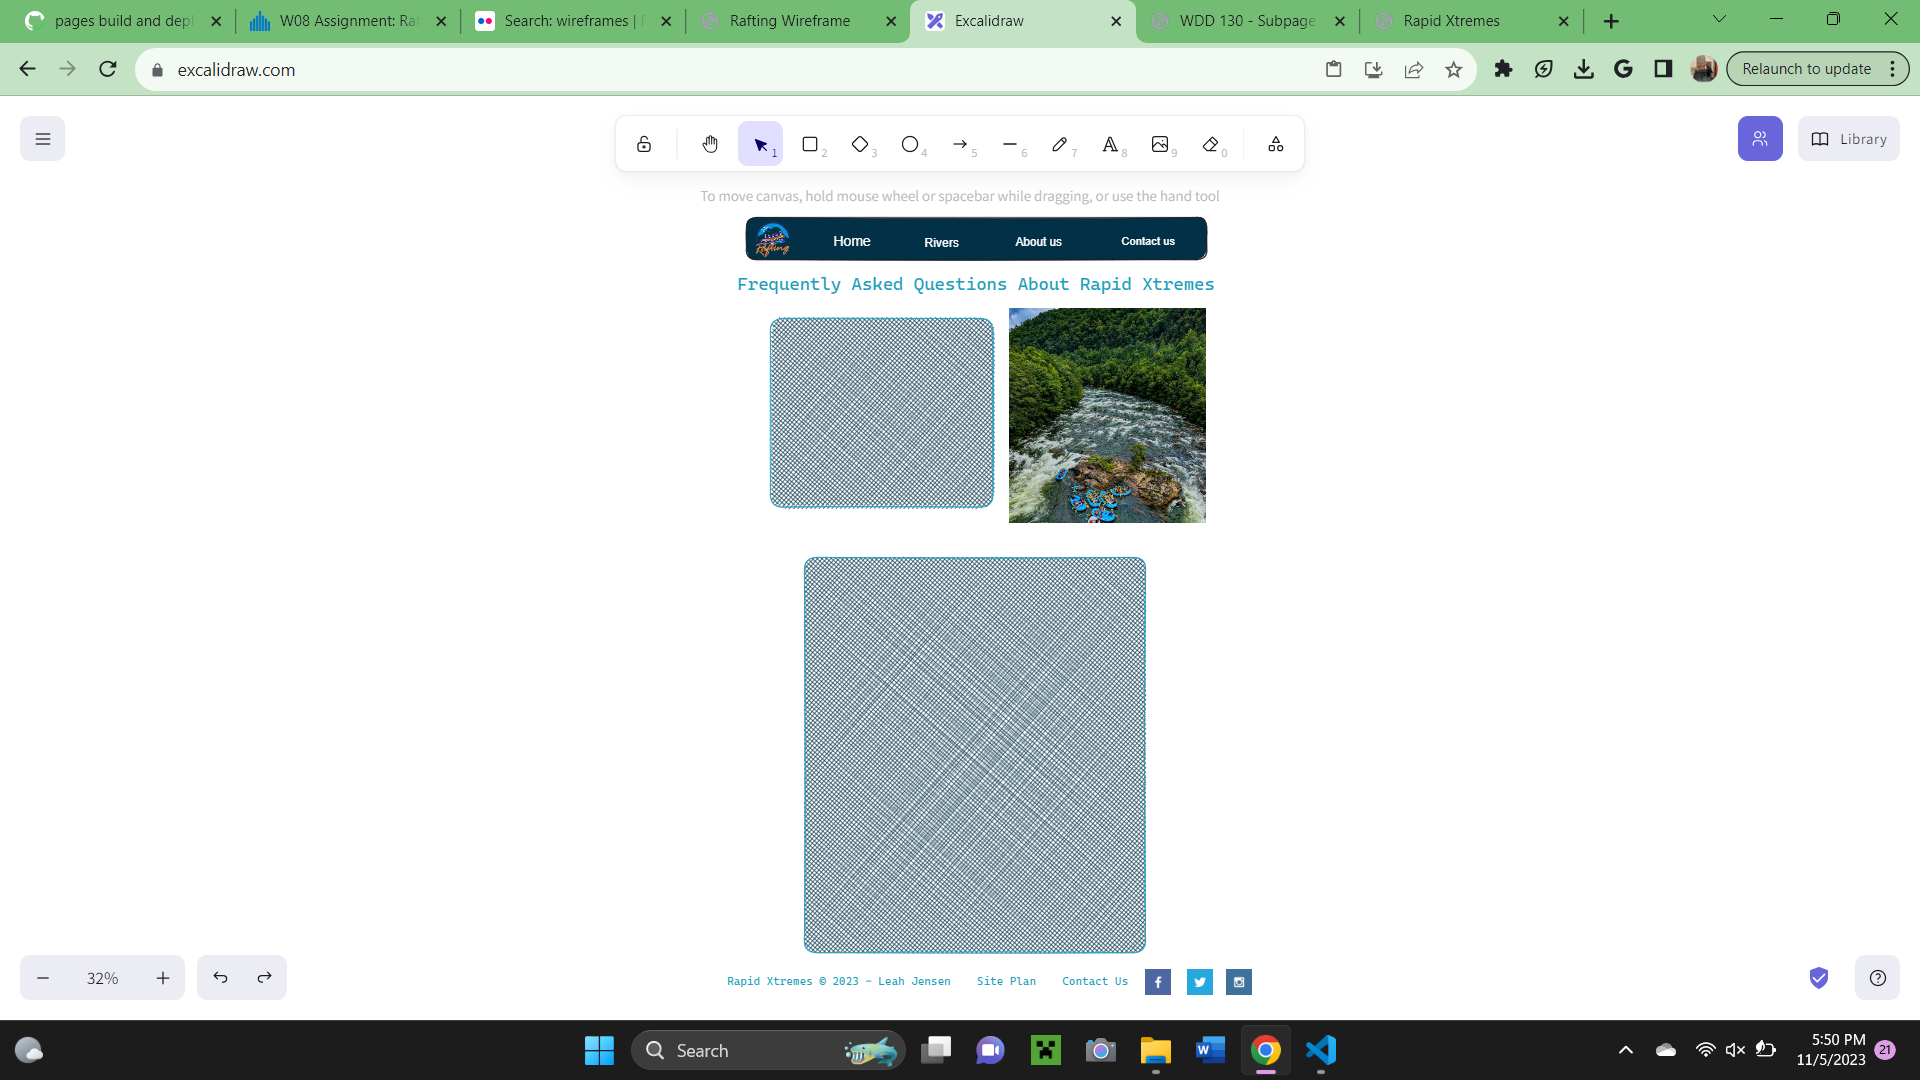
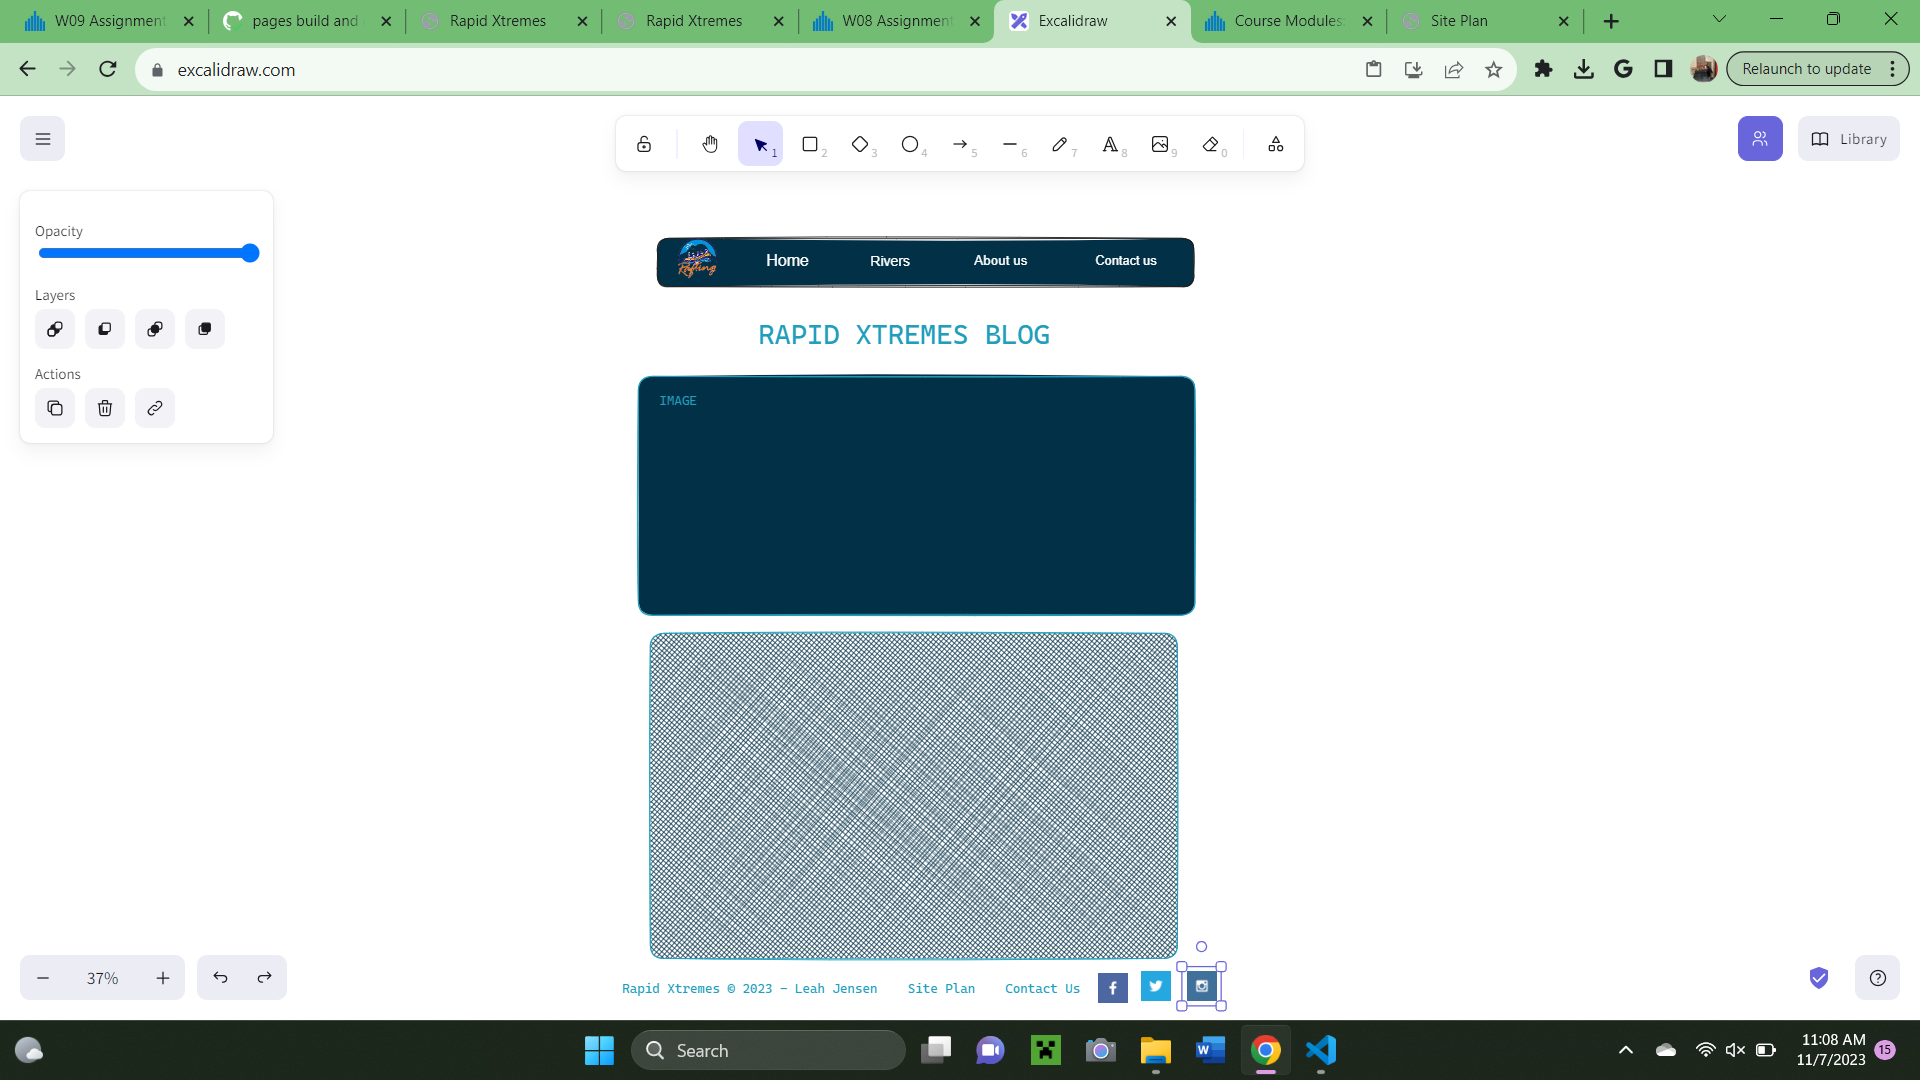
commit

diff --git a/wwr/blog.html b/wwr/blog.html
@@ -1,0 +1,55 @@
+<!DOCTYPE html>
+<html lang="en">
+
+<head>
+    <meta charset="UTF-8">
+    <meta name="viewport" content="width=device-width, initial-scale=1.0">
+    <title>Rapid Xtremes</title>
+    <link rel="stylesheet" href="styles/style.css">
+</head>
+
+<body>
+    <header>
+        <a id="logo_link" href="index.html">
+            <img class="logo" src="https://byui-wdd.github.io/wdd130/resources/images/logos/rafinglogo.png"
+                alt="Xtreme Rapids Logo">
+        </a>
+        <nav>
+            <a href="index.html">Home</a>
+            <a href="#">Rivers</a>
+            <a href="site-plan-rafting.html">About us</a>
+            <a href="contactus.html">Contact Us</a>
+        </nav>
+    </header>
+    <main class="blog-main">
+        <section class= "blog-post"></section>
+        <img src="#" alt="placeholder">
+    <h3> Blog Post Headline</h3>
+
+    Lorem ipsum dolor sit amet, consectetur adipiscing elit. Vestibulum molestie, leo placerat dignissim scelerisque, dui augue 
+    volutpat velit, sed iaculis nisl justo ornare metus. Donec pulvinar malesuada nulla et sollicitudin. Nam vel ipsum et tellus 
+    vestibulum convallis id vitae tortor. Nam finibus scelerisque nibh posuere faucibus. Morbi magna risus, auctor facilisis imperdiet 
+    sit amet, commodo ut ipsum. Cras aliquam arcu justo, ac tempor dui fermentum ultrices. Aliquam erat volutpat.
+    Quisque vitae lacinia felis. Vestibulum cursus leo orci, a cursus lacus maximus sit amet. Ut iaculis lacus eget tellus gravida, 
+    vel blandit felis congue. Sed dapibus sem sit amet diam placerat, in pellentesque eros blandit. Suspendisse lacinia neque sed 
+    viverra vulputate. Mauris luctus arcu at metus lobortis lobortis. Suspendisse bibendum libero cursus ultricies scelerisque. 
+    Praesent consectetur non erat eu euismod. Phasellus vel ex sed odio dictum vulputate at a magna. Praesent imperdiet tincidunt 
+    consequat. Vivamus mollis, est eu congue varius, ligula ipsum dignissim ex, et interdum est urna sed sapien. Vestibulum ac maximus
+     mauris, eu lobortis tellus. Suspendisse varius luctus arcu ut tempor.
+     
+    <footer>
+    <p>Rapid Xtremes &copy; 2023 - Leah Jensen</p>
+    <p><a href="site-plan-rafting.html">Site Plan</a></p>
+    <p><a href="contactus.html">Contact Us</a></p>
+    <a class="social"></a>
+    <a href="https://facebook.com" target="_blank">
+        <img src="https://byui-wdd.github.io/wdd130/rafting_images/facebook.png" width="40" height="40"
+            alt="facebook icon"> </a>
+    <a href="https://twitter.com" target="_blank">
+        <img src="https://byui-wdd.github.io/wdd130/rafting_images/twitter.png" width="40" height="40"
+            alt="twitter icon"> </a>
+    <a href="https://instagram.com" target="_blank">
+        <img src="https://byui-wdd.github.io/wdd130/rafting_images/instagram.png" width="40" height="40"
+            alt="instagram icon"></a>
+        </footer>
+</html>

diff --git a/lesson 9/challenge.html b/lesson 9/challenge.html
@@ -1,0 +1,32 @@
+<!DOCTYPE html>
+<html lang="en">
+<head>
+    <meta charset="UTF-8">
+    <meta name="viewport" content="width=device-width, initial-scale=wdd130">
+    <title>Week 9 Challenge</title>
+    <style>
+        .card{
+            max-width: 400px;
+            margin: 0 auto;
+            background-color: white;
+            border-radius: 10px;
+        }
+    </style>
+</head>
+<body>
+    <section class="card">
+        <img src="styles/w9 challenge.jpg" alt="cityscape"
+        <p class="timing"> 3 weeks ago </p>
+        <p class="heading"> Post three</p>
+        <p class="content">fjjfjfjfjfjjfjfjfjfjfjfj</p>
+        <div class="stats">
+        <div class="stat"
+            <p class="stat1"> 2031</p>
+            <p class="stat2"> VIEWS</p>
+        <p>5<sup>m</sup></p>
+        </div>
+
+
+    </section>
+</body>
+</html>

diff --git a/wwr/styles/style.css b/wwr/styles/style.css
@@ -271,6 +271,31 @@ main section img {
     grid-row: 4 / 9;
 }
 
+/** blog page**/
+
+.blog-main{
+    max-width: 600px;
+    margin: 0 auto;
+}
+
+blog-post{
+    background-color:#023047;
+    color: whitesmoke;
+    border-radius: 10px;
+    padding: 1rem;
+    margin: .5rem 0;
+}
+
+footer {
+    background-color: #023047;
+    margin-top: 200px;
+    padding: 25px 50px;
+    color: #219EBC;
+    display: flex;
+    justify-content: space-around;
+    align-items: center;
+}
+
 @media screen and (max-width: 900px) {
 
     #hero,
